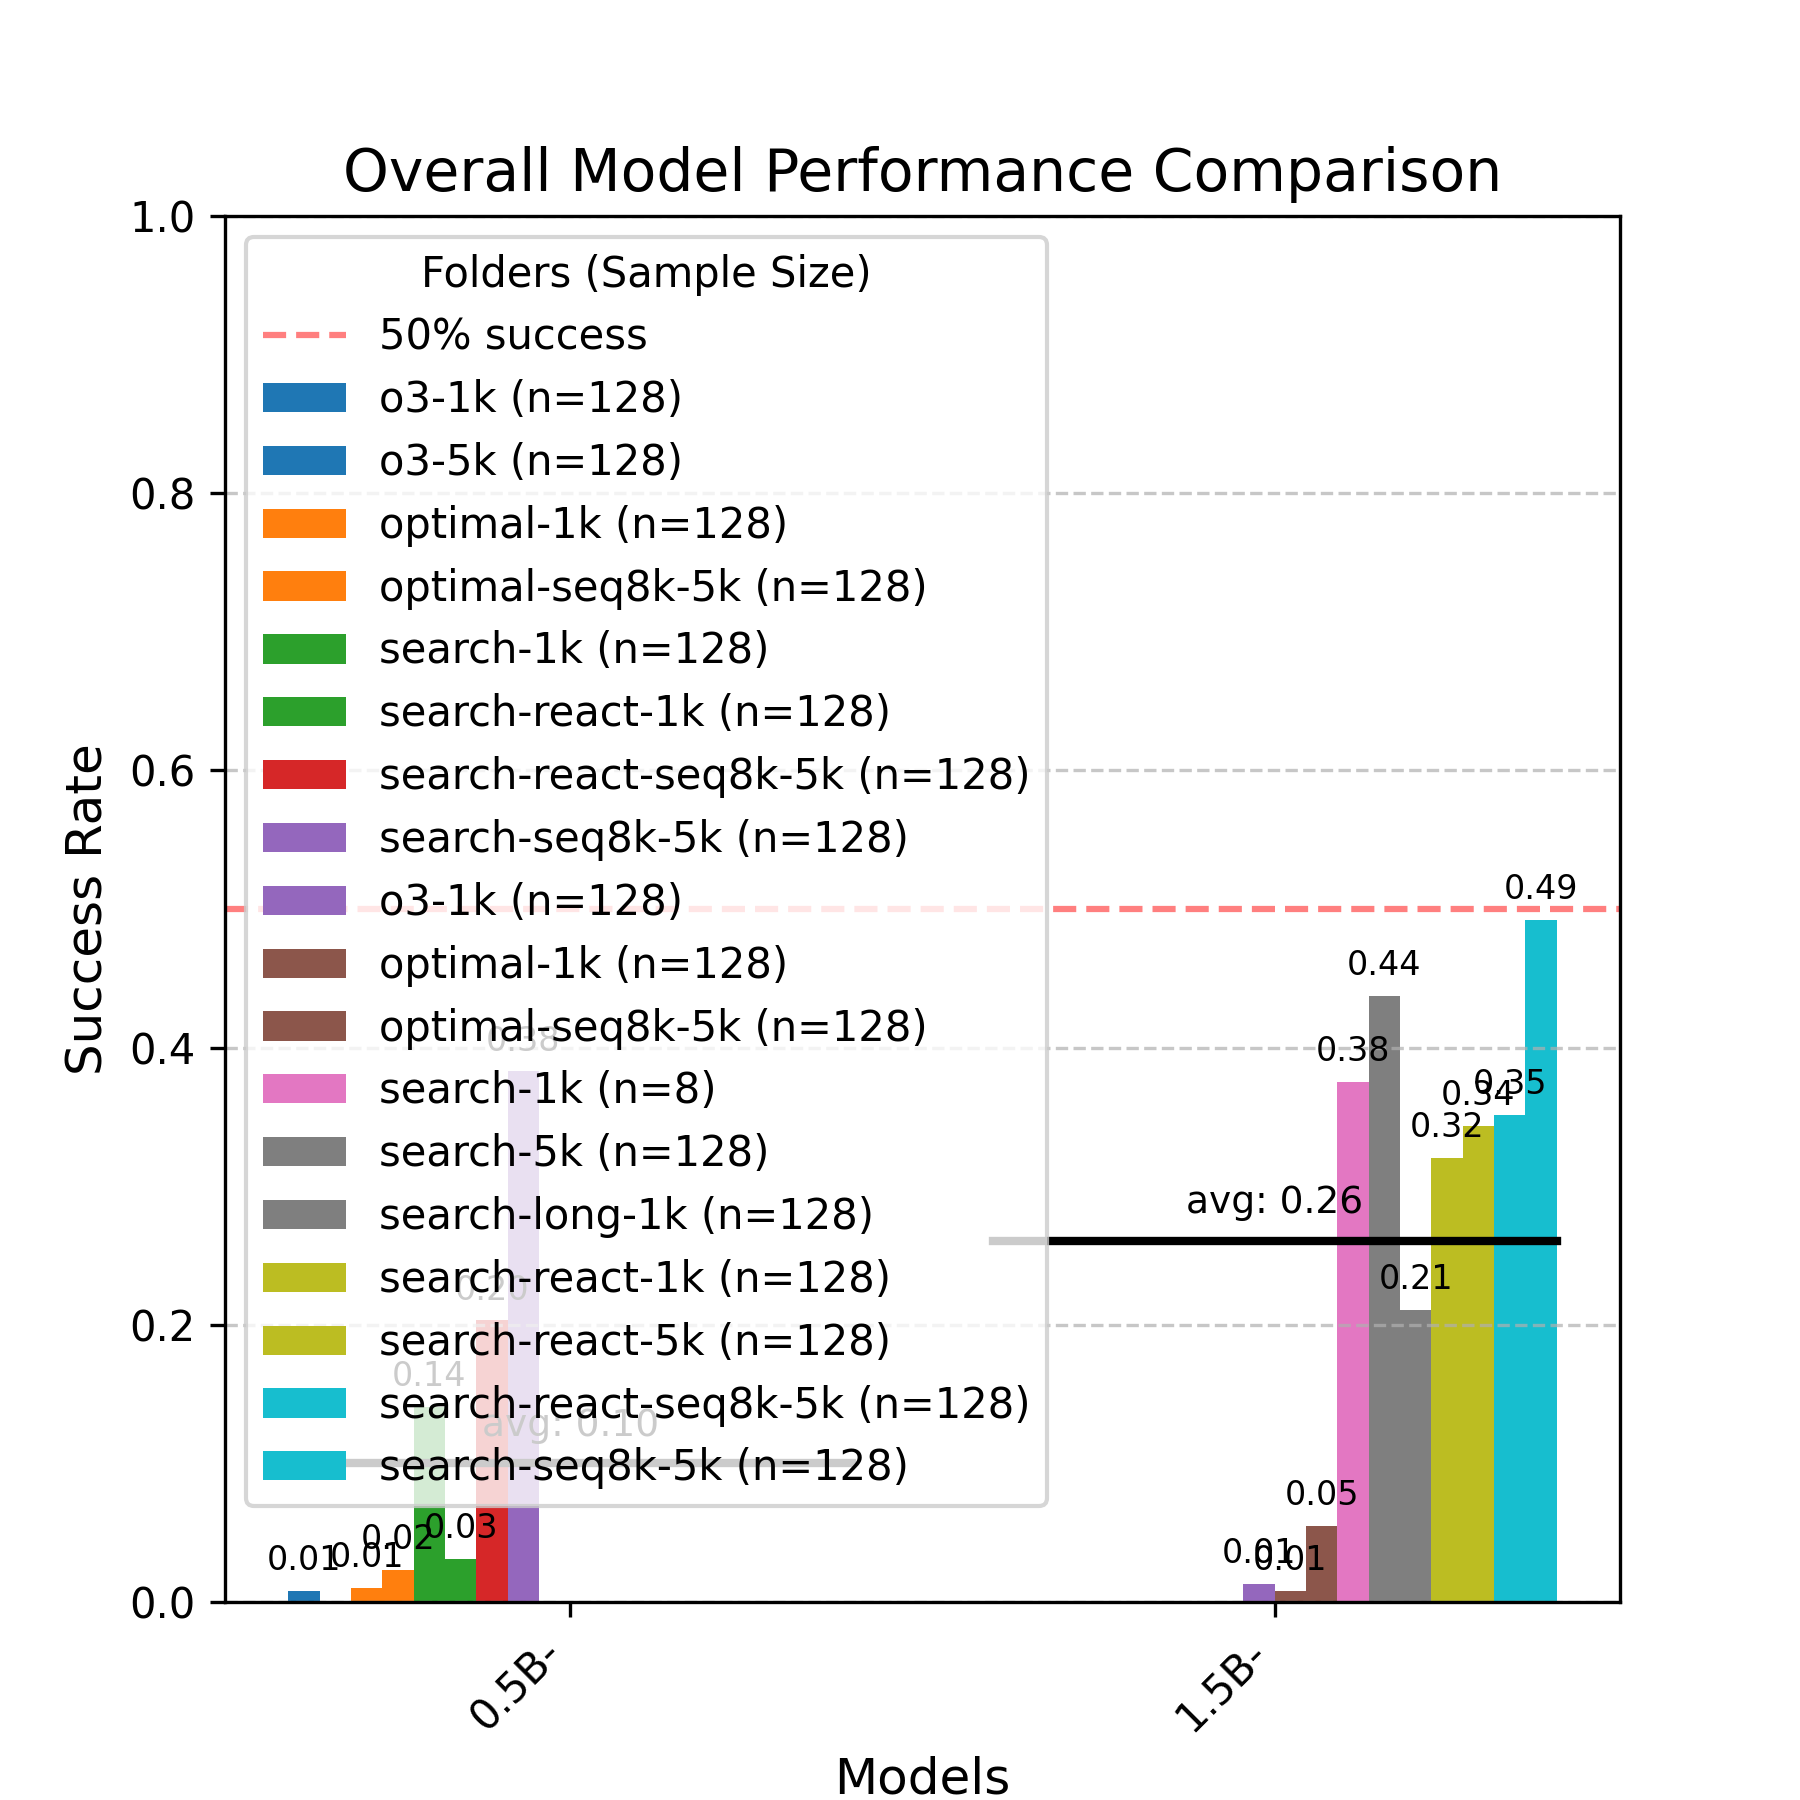
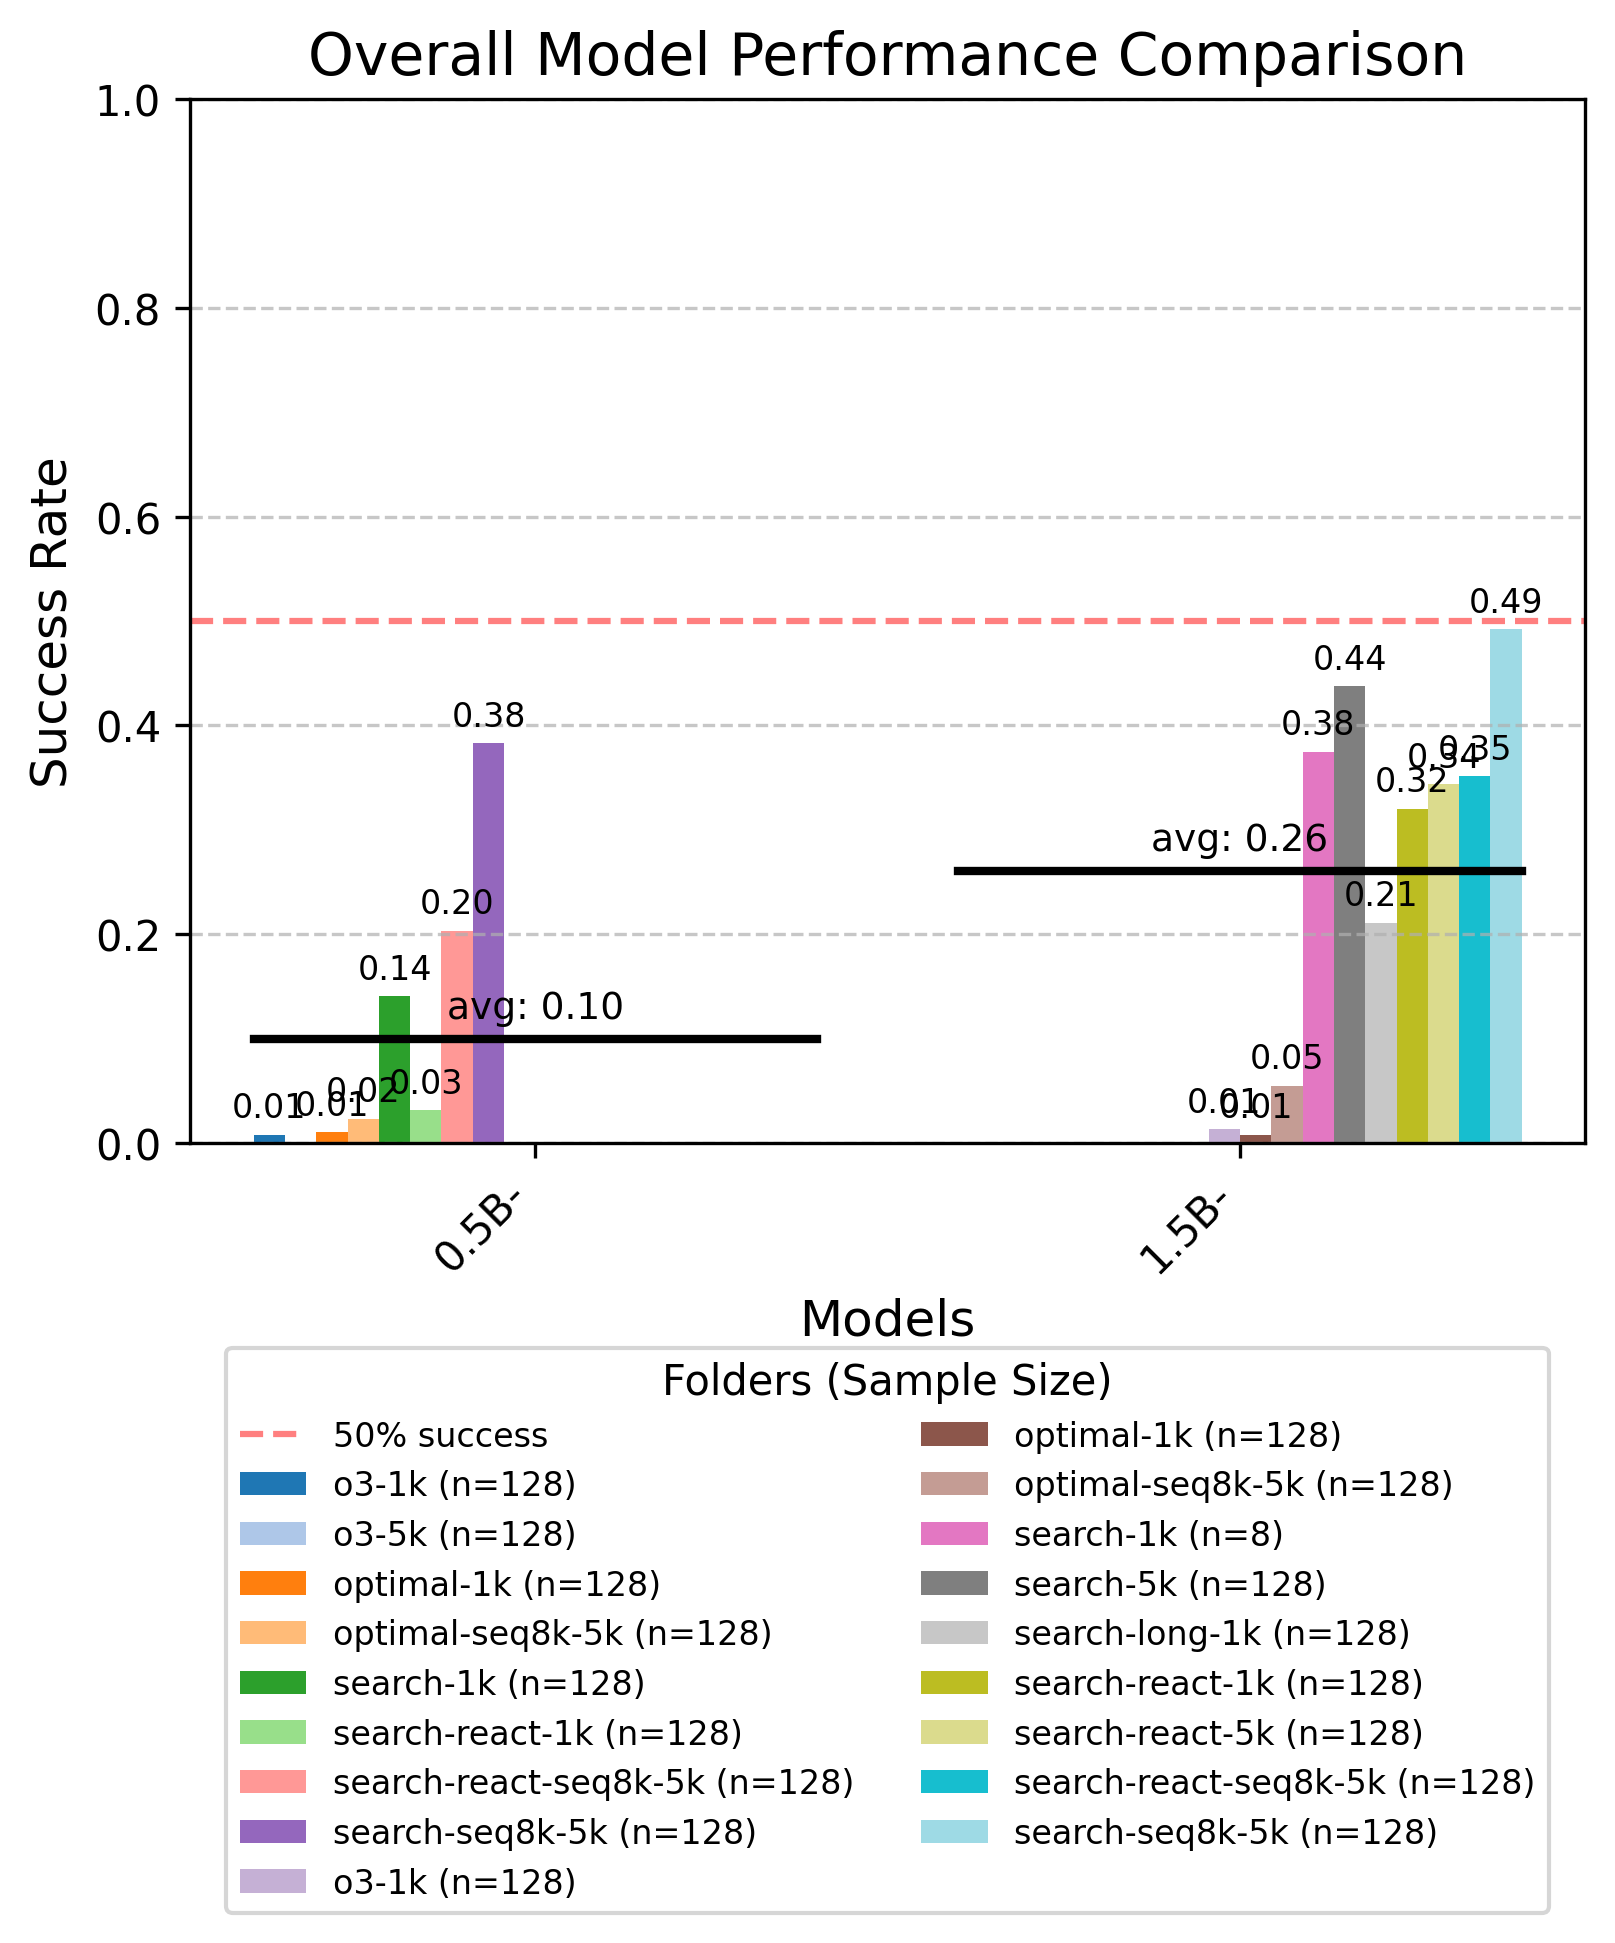
new visualizations

diff --git a/results/visualize.py b/results/visualize.py
@@ -51,6 +51,7 @@ def visualize_results():
             
             data_by_model[model_name][folder_name] = mean
 
+    # 1. Overall Comparison Plot
     # Get unique model names and folder names
     models = sorted(data_by_model.keys())
     folder_names = sorted(set(folder for model_data in data_by_model.values() for folder in model_data.keys()))
@@ -64,9 +65,8 @@ def visualize_results():
     # Set up the bar chart
     x = np.arange(len(models))
     width = 0.8 / len(folder_names)  # Width of each bar
-    colors = plt.cm.tab10(np.linspace(0, 1, len(folder_names)))
-
-
+    # Use a colormap with more distinct colors to avoid similar colors
+    colors = plt.cm.tab20(np.linspace(0, 1, len(folder_names)))
 
     # Plot bars for each folder
     for i, folder in enumerate(folder_names):
@@ -82,9 +82,6 @@ def visualize_results():
                 ax_main.text(bar.get_x() + bar.get_width()/2, height + 0.01,
                             f"{value:.2f}", ha='center', va='bottom', 
                             fontsize=8)
-
-    # folder_names = [x.split('-countdown-')[1].split('-')[0] for x in folder_names]
-    # 20250330112138-distributed-eval-qwen-2.5-1.5B-instruct-sft-lora-countdown-search-1k
 
     # Calculate average success rate per model
     model_avg = {model: np.mean([value for value in data_by_model[model].values()]) 
@@ -105,18 +102,23 @@ def visualize_results():
     ax_main.set_ylim(0, 1)
     ax_main.grid(axis='y', linestyle='--', alpha=0.7)
     ax_main.axhline(y=0.5, color='r', linestyle='--', alpha=0.5, label="50% success")
+    
+    # Move legend outside the plot to prevent it from covering the bars
     ax_main.legend(
         title='Folders (Sample Size)', 
-        loc='upper left',
-        # bbox_to_anchor=(1.15, 1),
-            
-        )
+        loc='upper center',
+        bbox_to_anchor=(0.5, -0.18),
+        ncol=2,
+        fontsize=8
+    )
 
-    # plt.tight_layout()
-    plt.savefig("./results/model_comparison.png", dpi=300) # , bbox_inches='tight')
+    # Adjust layout to make room for the legend
+    plt.subplots_adjust(bottom=0.3)
+    
+    plt.savefig("./results/model_comparison.png", dpi=300, bbox_inches='tight')
     plt.close()
 
-
+    # 2. Individual Runs Scatter Plot (subsequent subplots)
     # Group run details by folder
     runs_by_folder = {}
     for run_id, details in run_details.items():
@@ -128,8 +130,8 @@ def visualize_results():
     # Map model names to numeric indices for scatter plot x-positions
     model_indices = {model: i for i, model in enumerate(models)}
 
-    # Calculate number of plots: 1 overall + 1 per folder
-    num_plots = 1 + len(folder_names)
+    # Calculate number of plots: one per folder
+    num_plots = len(folder_names)
 
     # Determine layout: use 3 columns maximum
     num_cols = min(3, num_plots)
@@ -137,60 +139,12 @@ def visualize_results():
 
     # Create figure with appropriate size
     fig = plt.figure(figsize=(7*num_cols, 6*num_rows))
-
-    # 1. Overall Comparison Plot (first subplot)
-    ax_main = plt.subplot(num_rows, num_cols, 1)
-
-    # Set up the bar chart
-    x = np.arange(len(models))
-    width = 0.8 / len(folder_names)  # Width of each bar
-    colors = plt.cm.tab10(np.linspace(0, 1, len(folder_names)))
-
-    # Plot bars for each folder
-    for i, folder in enumerate(folder_names):
-        values = [data_by_model[model].get(folder, 0) for model in models]
-        sample_size = folder_sample_sizes.get(folder, "Unknown")
-        bars = ax_main.bar(x + i*width - (len(folder_names)-1)*width/2, values, 
-                        width=width, label=f"{folder.split('-countdown-')[1].split('_Melina')[0]} (n={sample_size})", color=colors[i])
-        
-        # Add value labels
-        for bar, value in zip(bars, values):
-            height = bar.get_height()
-            if height > 0:  # Only label non-zero bars
-                ax_main.text(bar.get_x() + bar.get_width()/2, height + 0.01,
-                            f"{value:.2f}", ha='center', va='bottom', 
-                            fontsize=8)
-
-    # Calculate average success rate per model
-    model_avg = {model: np.mean([value for value in data_by_model[model].values()]) 
-                for model in models}
-
-    # Plot average line
-    avg_values = [model_avg[model] for model in models]
-    for i, (x_pos, y_pos) in enumerate(zip(x, avg_values)):
-        ax_main.plot([x_pos-0.4, x_pos+0.4], [y_pos, y_pos], color='black', linestyle='-', linewidth=2)
-        ax_main.text(x_pos, y_pos + 0.02, f"avg: {y_pos:.2f}", ha='center', fontsize=9)
-
-    # Configure the plot
-    # ax_main.set_xlabel('Models', fontsize=12)
-    ax_main.set_ylabel('Success Rate', fontsize=12)
-    ax_main.set_title('Overall Model Performance Comparison', fontsize=14)
-    ax_main.set_xticks(x)
-    ax_main.set_xticklabels(models, rotation=45, ha='right', fontsize=10)
-    ax_main.set_ylim(0, 1)
-    ax_main.grid(axis='y', linestyle='--', alpha=0.7)
-    ax_main.axhline(y=0.5, color='r', linestyle='--', alpha=0.5, label="50% success")
-    ax_main.legend(title='Folders (Sample Size)', loc='upper left')
-
-
-    # Map model names to numeric indices for scatter plot x-positions
-    model_indices = {model: i for i, model in enumerate(models)}
-
+    
     # Create scatter plot for each folder
-    folder_experiment_names  = []
+    folder_experiment_names = []
     for i, folder in enumerate(folder_names):
-        # Create subplot (i+2 because position 1 is for overall comparison)
-        ax_folder = plt.subplot(num_rows, num_cols, i+2)
+        # Create subplot, starting from position 1
+        ax_folder = plt.subplot(num_rows, num_cols, i+1)
         
         if folder in runs_by_folder:
             folder_runs = runs_by_folder[folder]
@@ -222,7 +176,6 @@ def visualize_results():
                                 textcoords="offset points", xytext=(0,10), ha='center', fontsize=8)
             
             # Configure the plot
-            # ax_folder.set_xlabel('Models', fontsize=12)
             ax_folder.set_ylabel('Success Rate', fontsize=12)
             sample_size = folder_sample_sizes.get(folder, "Unknown")
             ax_folder.set_title(f"Individual Runs with n={sample_size} in \n" + "\n".join(folder.split('-countdown-')), fontsize=14)
@@ -238,9 +191,7 @@ def visualize_results():
             ax_folder.set_title(f'{folder}', fontsize=14)
             ax_folder.axis('off')
 
-    # plt.tight_layout()
-    plt.savefig("./results/all_trials.png", dpi=300) # , bbox_inches='tight')
-    # plt.show()
+    plt.savefig("./results/all_trials.png", dpi=300, bbox_inches='tight')
 
 if __name__ == "__main__":
     visualize_results()
